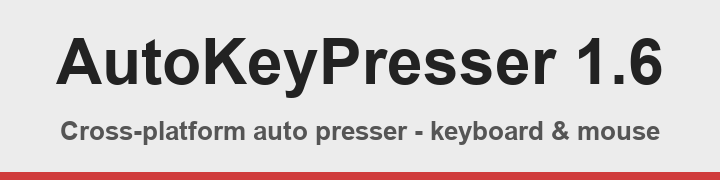
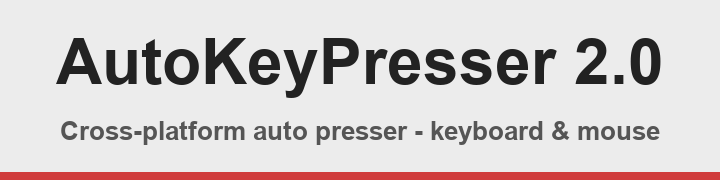
chore(release): prepare version 2.0
Align the application, updater, installers, package-manager manifests, documentation, tests, and release imagery with the 2.0 production version.

Changed region(s): [[0.7944, 0.1944, 0.8556, 0.4722], [0.8861, 0.1944, 0.9167, 0.4722]]

diff --git a/autoclicker/app.py b/autoclicker/app.py
@@ -12,7 +12,7 @@ from . import macro, themes
 from .profiles import load_profiles, save_profiles
 from . import updater
 
-APP_NAME = "AutoKeyPresser 1.6"
+APP_NAME = "AutoKeyPresser 2.0"
 
 
 def _mix_color(color, other, amount):
@@ -702,7 +702,7 @@ class AutoClickerApp:
         ttk.Label(footer, textvariable=self.status_var, style="Muted.TLabel").grid(
             row=0, column=1, sticky="w"
         )
-        ttk.Label(footer, text="v1.6  •  local by design", style="Quiet.TLabel").grid(
+        ttk.Label(footer, text="v2.0  •  local by design", style="Quiet.TLabel").grid(
             row=0, column=2, sticky="e"
         )
 

diff --git a/tests/test_app.py b/tests/test_app.py
@@ -58,8 +58,9 @@ class SettingsTests(unittest.TestCase):
 
 class UpdaterTests(unittest.TestCase):
     def test_version_comparison(self):
-        self.assertTrue(updater.is_newer("v1.7"))
-        self.assertFalse(updater.is_newer("v1.6"))
+        self.assertTrue(updater.is_newer("v2.1"))
+        self.assertFalse(updater.is_newer("v2.0"))
+        self.assertFalse(updater.is_newer("v1.9"))
         self.assertFalse(updater.is_newer("not-a-version"))
 
     def test_windows_installer_asset(self):

diff --git a/scripts/generate_banner.py b/scripts/generate_banner.py
@@ -22,7 +22,7 @@ bold = next((f for f in fonts if f.exists()), None)
 title_font = ImageFont.truetype(str(bold), 64) if bold else ImageFont.load_default()
 sub_font = ImageFont.truetype(str(bold), 26) if bold else ImageFont.load_default()
 
-title = "AutoKeyPresser 1.6"
+title = "AutoKeyPresser 2.0"
 sub = "Cross-platform auto presser - keyboard & mouse"
 
 tw = draw.textlength(title, font=title_font)

diff --git a/autoclicker/updater.py b/autoclicker/updater.py
@@ -7,7 +7,7 @@ import tempfile
 import urllib.request
 from pathlib import Path
 
-CURRENT_VERSION = "1.6"
+CURRENT_VERSION = "2.0"
 REPOSITORY = "CamjamPNG/autokeypresser"
 RELEASES_API = f"https://api.github.com/repos/{REPOSITORY}/releases/latest"
 RELEASES_PAGE = f"https://github.com/{REPOSITORY}/releases/latest"

diff --git a/packaging/homebrew/autokeypresser.rb b/packaging/homebrew/autokeypresser.rb
@@ -1,5 +1,5 @@
 cask "autokeypresser" do
-  version "1.6"
+  version "2.0"
   sha256 "REPLACE_WITH_RELEASE_SHA256"
 
   url "https://github.com/CamjamPNG/autokeypresser/releases/download/v#{version}/AutoKeyPresser-Portable-macos.zip"

diff --git a/README.md b/README.md
@@ -1,5 +1,5 @@
 <p align="center">
-	<img src="img/banner.png" alt="AutoKeyPresser 1.6" />
+	<img src="img/banner.png" alt="AutoKeyPresser 2.0" />
 </p>
 
 <p align="center">
@@ -16,7 +16,7 @@ AutoKeyPresser is an open-source, easy to use, cross-platform auto presser for
 mouse button from a modern, focused desktop workspace.
 
 ![AutoKeyPresser modern desktop interface](img/example.png)
-*The v1.6 automation workspace in the Aurora theme.*
+*The v2.0 automation workspace in the Aurora theme.*
 
 [![forthebadge](https://forthebadge.com/images/badges/made-with-python.svg)](https://www.python.org/)
 

diff --git a/docs/wiki/Themes.md b/docs/wiki/Themes.md
@@ -1,5 +1,5 @@
 # Themes
 
-AutoKeyPresser 1.6 includes Aurora, Classic Gray, Midnight, Ocean, Forest, and Sunset.
+AutoKeyPresser 2.0 includes Aurora, Classic Gray, Midnight, Ocean, Forest, and Sunset.
 Choose a theme from **Appearance** for a live preview. Use **Export current**
 to share it or **Import theme** to install a shared `.akpt` file.

diff --git a/THEMING.md b/THEMING.md
@@ -1,6 +1,6 @@
 # AutoKeyPresser Themes
 
-AutoKeyPresser 1.6 includes six built-in themes and supports shareable
+AutoKeyPresser 2.0 includes six built-in themes and supports shareable
 `.akpt` theme files.
 
 ## Built-In Themes
